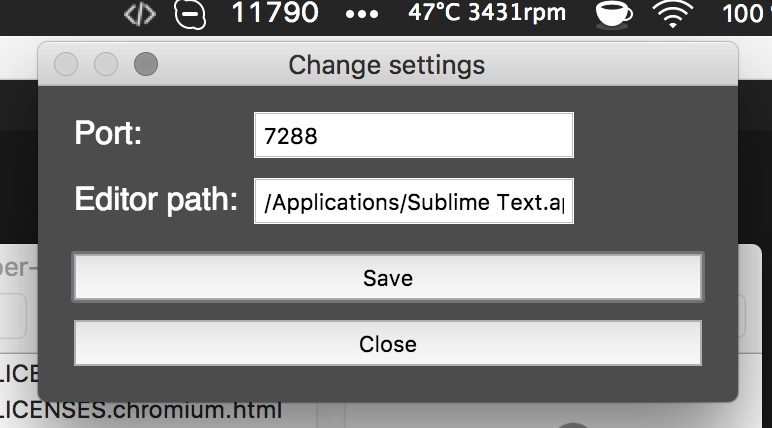
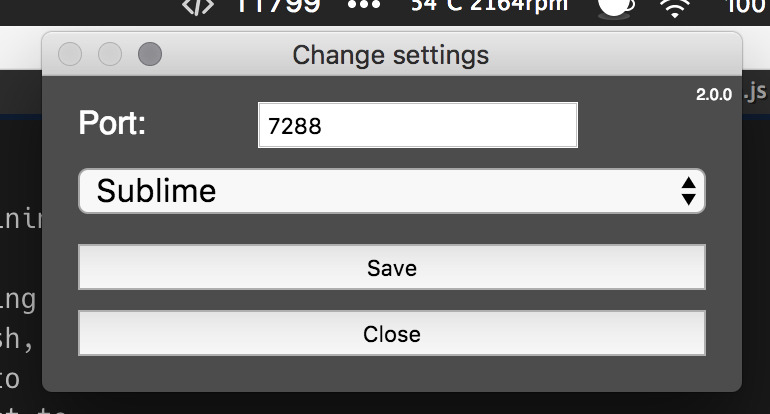
master:Added open editor, substituted input of path for switch

Changed region(s): [[0.0, 0.0, 1.0, 1.0], [0.3117, 0.2319, 0.7481, 0.3768], [0.0935, 0.2609, 0.187, 0.3478]]

diff --git a/src/index.html b/src/index.html
@@ -29,61 +29,62 @@
         padding: 5px;
         margin: 10px 0;
     }
+    .editor {
+        display: block;
+        width: 100%;
+        font-size: 16px;
+    }
+    .version {
+        color: white;
+        position: absolute;
+        top: 5px;
+        right: 5px;
+        font-size: 8px;
+    }
     </style>
     <link rel="shortcut icon" href="../assets/images/favicon.png" type="image/png">
 </head>
 <body>
+    <div class="version"></div>
     <form>
         <label for="port">
-            <span>Port:</span><input class="port" type="number" placeholder="port"/></label>
-        <label for="port">
-            <span>Editor path:</span><input class="editorPath" type="text" placeholder="editor path"/></label>
+            <span>Port:</span><input class="port" type="number" placeholder="port" /></label>
+        <label for="editor">
+            <select value="sublime" id="editor" class="editor">
+                <option value="sublime">Sublime</option>
+                <option value="atom">Atom</option>
+                <option value="vscode">VScode</option>
+                <option value="webstorm">Webstorm</option>
+                <option value="textmate">Textmate</option>
+            </select>
+        </label>
         <button>Save</button>
         <button class="close-btn" type="button">Close</button>
     </form>
 <script>
     const electron = require('electron');
     const remote = electron.remote;
-    const { clipboard } = electron;
-    const { Menu, MenuItem } = remote;
-
-    window.addEventListener('contextmenu', (e) => {
-        e.preventDefault();
-        menu.popup(remote.getCurrentWindow());
-    }, false);
     const port = document.querySelector('.port');
-    const editorPath = document.querySelector('.editorPath');
+    const editor = document.querySelector('.editor');
     const closeBtn = document.querySelector('.close-btn');
+    const versionLabel = document.querySelector('.version');
     const config = remote.getGlobal('config');
     const restartServer = remote.getGlobal('restartServer');
+    const pkg = require('../package.json');
+    versionLabel.innerText = pkg.version;
 
     function onSubmit(event) {
         event ? event.preventDefault() : null;
         config.set({
             port: port.value,
-            editorPath: escape(editorPath.value)
+            editor: editor.value
         });
         event ? restartServer(true) : null;
     }
 
-    const menu = new Menu();
-    menu.append(new MenuItem({label: 'paste', click() {
-        editorPath.value = clipboard.readText();
-        onSubmit();
-    }}));
-
-    document.addEventListener('keydown', (event) => {
-        if (event.key === 'v' && event.metaKey) {
-            editorPath.value = clipboard.readText();
-            onSubmit();
-        }
-    });
-
     port.value = config.get('port');
-    editorPath.value = config.get('editorPath');
-    closeBtn.addEventListener('click', () => {
-        restartServer();
-    });
+    editor.value = config.get('editor');
+    closeBtn.addEventListener('click', restartServer);
     document.querySelector('form').addEventListener('submit', onSubmit);
 </script>
 

diff --git a/src/open-editor.js b/src/open-editor.js
@@ -1,0 +1,77 @@
+'use strict';
+// Copy of https://github.com/sindresorhus/open-editor, but fiddled with a bit
+const childProcess = require('child_process');
+const envEditor = require('env-editor');
+const lineColumnPath = require('line-column-path');
+const opn = require('opn');
+
+const make = (files, opts) => {
+    if (!Array.isArray(files)) {
+        throw new TypeError(`Expected an \`Array\`, got ${typeof files}`);
+    }
+
+    opts = Object.assign({}, opts);
+
+    const editor = envEditor.get(opts.editor);
+
+    const args = [];
+
+    if (editor.id === 'vscode') {
+        args.push('--goto');
+    }
+
+    for (const file of files) {
+        const parsed = lineColumnPath.parse(file);
+
+        if (['sublime', 'atom', 'vscode'].indexOf(editor.id) !== -1) {
+            args.push(lineColumnPath.stringify(parsed));
+            continue;
+        }
+
+        if (editor.id === 'webstorm') {
+            args.push(lineColumnPath.stringify(parsed, { column: false }));
+            continue;
+        }
+
+        if (editor.id === 'textmate') {
+            args.push(
+                '--line',
+                lineColumnPath.stringify(parsed, {
+                    file: false,
+                    column: false
+                }),
+                parsed.file
+            );
+            continue;
+        }
+
+        args.push(parsed.file);
+    }
+
+    return {
+        bin: editor.bin,
+        args
+    };
+};
+
+module.exports = (files, opts) => {
+    const result = make(files, opts);
+
+    const cp = childProcess.spawn(result.bin, result.args, {
+        detached: true,
+        stdio: 'ignore'
+    });
+
+    // Fallback
+    cp.on('error', () => {
+        const result = make(files, Object.assign({}, opts, { editor: '' }));
+
+        for (const file of result.args) {
+            opn(file, { wait: false });
+        }
+    });
+
+    cp.unref();
+};
+
+module.exports.make = make;

diff --git a/src/server.js b/src/server.js
@@ -1,10 +1,9 @@
 'use strict';
 
 const express = require('express');
-const execa = require('execa');
-const path = require('path');
 const app = express();
-let editorPath = '';
+const openEditor = require('./open-editor');
+let editor = 'sublime';
 
 app.use(function(req, res, next) {
     res.header('Access-Control-Allow-Origin', '*');
@@ -17,15 +16,13 @@ app.use(function(req, res, next) {
 
 app.get('/openeditor', function(req, res) {
     let { options = '' } = req.query;
-    options = options.replace(/\s/g, '\\ ');
-    execa.shell(path.normalize(editorPath) + ' ' + (options ? options : ''))
-        .then(result => res.send(result.stdout))
-        .catch(error => res.send(error));
+    openEditor([ options ], { editor });
+    res.send('ok');
 });
 
 module.exports = {
     app,
-    updatePath: function(newPath) {
-        editorPath = unescape(newPath).replace(/\s/g, '\\ ');
+    updateEditor(newEditor) {
+        editor = newEditor;
     }
 };

diff --git a/src/main.js b/src/main.js
@@ -15,11 +15,11 @@ const fork = require('child_process').fork;
 // var shell = require('electron').shell;
 
 let port = DEFAULT_PORT;
-let editorPath = '';
+let editor = 'sublime';
 
 const config = new Config({
     defaults: {
-        editorPath,
+        editor,
         port
     }
 });
@@ -37,7 +37,7 @@ let contextMenu = null;
 
 function startServer() {
     server = fork(path.resolve(__dirname, './launch.js'));
-    server.send(`launch ${config.get('port')} ${config.get('editorPath')}`);
+    server.send(`launch ${config.get('port')} ${config.get('editor')}`);
     // if (appIcon) {
     //     appIcon.setImage(iconPath.active);
     // }

diff --git a/src/launch.js b/src/launch.js
@@ -4,11 +4,11 @@ const serverObject = require('./server');
 let server;
 
 process.on('message', message => {
-    let [command, port, editorPath] = message.split(' ');
+    let [command, port, editor] = message.split(' ');
 
     if (command === 'launch') {
         server = serverObject.app.listen(port);
-        serverObject.updatePath(editorPath);
+        serverObject.updateEditor(editor);
     }
     if (command === 'kill') {
         server.close();

diff --git a/src/test.js b/src/test.js
@@ -2,4 +2,4 @@
 
 const serverObject = require('./server');
 serverObject.app.listen(7288);
-serverObject.updatePath('/Applications/Sublime Text.app/Contents/SharedSupport/bin/subl');
+// serverObject.updateEditor('atom');

diff --git a/README.md b/README.md
@@ -15,7 +15,13 @@ Barebones simple server, to open files in your favorite editor from whereever po
 ![screen](./assets/images/screen-1.png)
 ![screen](./assets/images/screen-2.png)
 
-### Set path to your favorite editor.
+### Select your favorite editor:
+
+- Sublime
+- Atom
+- VScode
+- Webstorm
+- Textmate
 
 Now set your tools (extentions and stuff) to call:
 
@@ -26,4 +32,5 @@ Now set your tools (extentions and stuff) to call:
 And it will open your editor on specified line and column.
 
 ###  Changelog
+2.0.0 Support for different major editors, no need to fiddle with editor path
 1.1.1 Updated tray icon for retina
